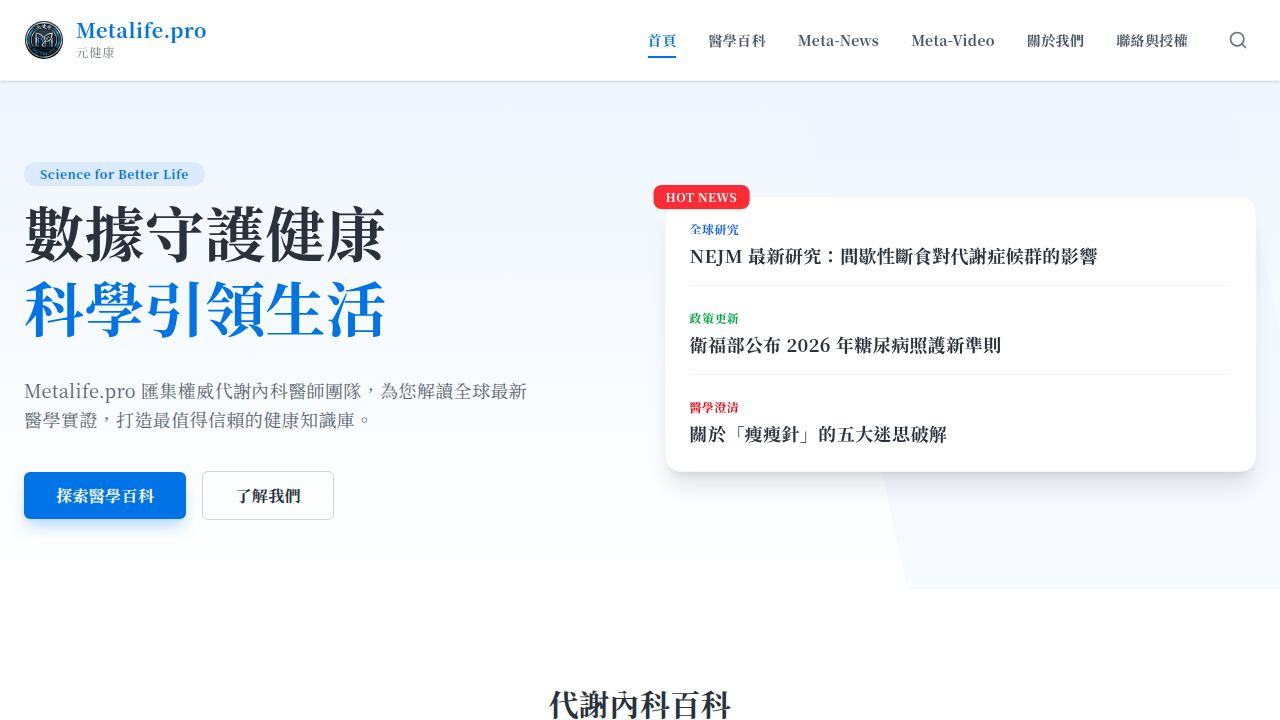
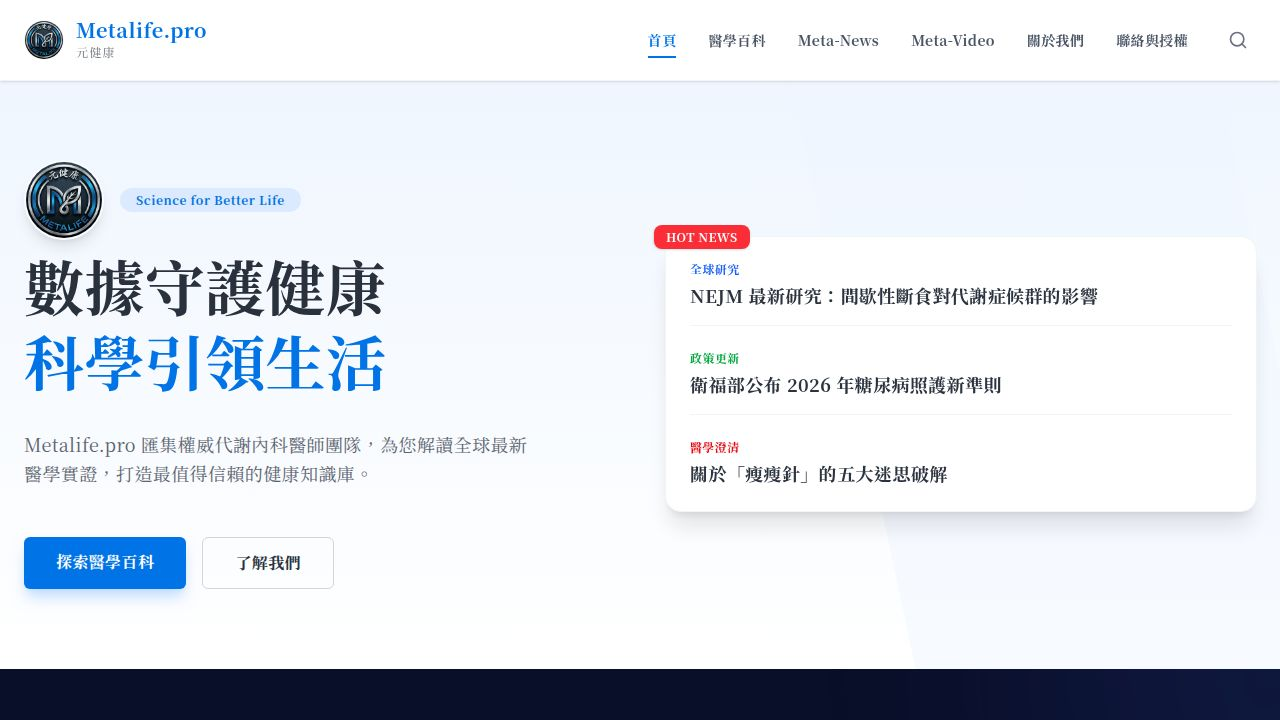
Adjust mobile homepage video section layout
Modify the mobile layout of the 'Meta-Stream 影音' section to place the title on its own line, align text to the left, and position the 'view more' link below the description.

Replit-Commit-Author: Agent
Replit-Commit-Session-Id: 0b2668f1-b959-45e6-bcc0-a6024613fd3b
Replit-Commit-Checkpoint-Type: full_checkpoint
Replit-Commit-Event-Id: ee4e7980-98a1-43c2-9173-86236f21514c
Replit-Commit-Screenshot-Url: https://storage.googleapis.com/screenshot-production-us-central1/ede0783e-3aab-4fdd-a966-51b9e30dfd97/0b2668f1-b959-45e6-bcc0-a6024613fd3b/yvuKOoD
Replit-Helium-Checkpoint-Created: true

diff --git a/client/src/pages/home.tsx b/client/src/pages/home.tsx
@@ -292,12 +292,12 @@ export default function Home() {
       {/* 3. Latest Videos (Meta-Stream) */}
       <section className="py-24 bg-gray-50">
         <div className="container mx-auto px-4 md:px-6">
-          <div className="flex justify-between items-end mb-12">
-             <div>
+          <div className="flex flex-col md:flex-row md:justify-between md:items-end mb-12 gap-4 md:gap-0">
+             <div className="flex flex-col items-start">
                <h2 className="text-3xl font-bold mb-2">Meta-Stream 影音</h2>
                <p className="text-muted-foreground">專業醫師對談與衛教動畫</p>
              </div>
-             <Link href="/videos" className="text-primary font-bold flex items-center hover:underline">
+             <Link href="/videos" className="text-primary font-bold flex items-center hover:underline self-start md:self-auto">
                  觀看更多 <ArrowRight className="w-4 h-4 ml-1" />
              </Link>
           </div>
